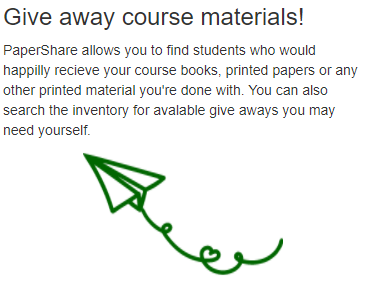
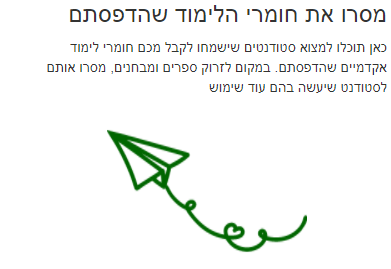
all pages in hebrew only

Changed region(s): [[0.0, 0.1487, 0.9918, 0.4758], [0.2104, 0.4758, 0.8115, 0.9517], [0.0, 0.0, 0.9918, 0.119]]

diff --git a/FlaskWebProject/FlaskWebProject/templates/menu.html b/FlaskWebProject/FlaskWebProject/templates/menu.html
@@ -3,149 +3,178 @@
 {% block content %}
 <br />
 
-<ul class="nav nav-tabs">
-    <li class="active"><a data-toggle="tab" href="#home">Find materials</a></li>
-    <li><a data-toggle="tab" href="#menu1">Give away materials</a></li>
-    <li><a data-toggle="tab" href="#menu2">My posts</a></li>
+<ul class="nav nav-tabs pull-right">
+    <li><a data-toggle="tab" href="#menu2">המסירות שלי</a></li>
+    <li><a data-toggle="tab" href="#menu1">מסירת חומרי לימוד</a></li>
+    <li class="active"><a data-toggle="tab" href="#home">חיפוש חומרי לימוד</a></li>
 </ul>
 
 <div class="tab-content">
     <div id="home" class="tab-pane fade in active">
-        <h3>Find printed materials by choosing your faculty and the course:</h3>
+        <br />
+        <br />
+        <br />
+        <h3 class="text-right">חיפוש חומרי לימוד למסירה</h3>
 
-        <div class="dropdown">
+        <div class="dropdown pull-right">
             <button class="btn btn-default dropdown-toggle" type="button" data-toggle="dropdown">
-                Fauclty
+                פקולטה
                 <span class="caret"></span>
             </button>
             <ul class="dropdown-menu">
-                <li class="dropdown-header">Engineering</li>
-                <li><a href="#">Elecric engineering</a></li>
-                <li><a href="#">Mechanical engineering</a></li>
+                <li class="dropdown-header text-right">הנדסה</li>
+                <li class="text-right"><a href="#">הנדסת חשמל</a></li>
+                <li class="text-right"><a href="#">הנדסה מכנית</a></li>
+                <li class="text-right"><a href="#">הנדסה ביו-רפואית</a></li>
+                <li class="text-right"><a href="#">הנדסת חומרים</a></li>
+                <li class="text-right"><a href="#">הנדסת תעשייה וניהול</a></li>
                 <li class="divider"></li>
-                <li class="dropdown-header">Medecine</li>
-                <li><a href="#">Medecine</a></li>
+                <li class="dropdown-header text-right">רפואה</li>
+                <li class="text-right"><a href="#">רפואה</a></li>
+                <li class="text-right"><a href="#">סיעוד</a></li>
             </ul>
         </div>
         <br />
-        <div class="dropdown">
+        <br />
+        <div class="dropdown pull-right">
             <button class="btn btn-default dropdown-toggle" type="button" data-toggle="dropdown">
-                Course
+                קורס
                 <span class="caret"></span>
             </button>
             <ul class="dropdown-menu">
-                <li class="dropdown-header">First year</li>
-                <li><a href="#">Physics 1</a></li>
-                <li><a href="#">Linear algebra</a></li>
+                <li class="dropdown-header text-right">שנה א</li>
+                <li class="text-right"><a href="#">מכניקה קלאסית</a></li>
+                <li class="text-right"><a href="#">אלגברה לינארית</a></li>
                 <li class="divider"></li>
-                <li class="dropdown-header">Second year</li>
-                <li><a href="#">Python</a></li>
+                <li class="dropdown-header text-right">שנה ב</li>
+                <li class="text-right"><a href="#">מבני נתונים</a></li>
+                <li class="text-right"><a href="#">אנליזה הרמונית</a></li>
+                <li class="text-right"><a href="#">פיזיקה קוואנטית</a></li>
             </ul>
         </div>
+        <br />
         <br />
         <div>
             <form action="{{ url_for('ask') }}">
-                <button type="submit" class="btn btn-success"><span class="glyphicon glyphicon-search"></span> Search</button>
+                <button type="submit" class="btn btn-success pull-right"><span class="glyphicon glyphicon-search"></span> חיפוש</button>
             </form>
         </div>
         <div class="container">
-            <table class="table table-striped table-hover">
+            <table class="table table-striped table-hover text-right">
                 <thead>
                     <tr>
-                        <th>Descripton</th>
-                        <th>Email</th>
+                        <th class="text-right">תיאור</th>
+                        <th class="text-right">Email</th>
                     </tr>
                 </thead>
                 <tbody>
                     <tr>
-                        <td>10 printed Tests</td>
+                        <td> מבחנים מודפסים</td>
                         <td>john@example.com</td>
                     </tr>
                     <tr>
-                        <td>Course book</td>
+                        <td>ספר הקורס</td>
                         <td>mary@example.com</td>
                     </tr>
                     <tr>
-                        <td>My notes</td>
+                        <td>סיכום שלי</td>
                         <td>july@example.com</td>
                     </tr>
                 </tbody>
             </table>
         </div>
     </div>
-
+    <br />
 
 
     <div id="menu1" class="tab-pane fade">
-        <h3>Find a student to take away the materials you no longer need:</h3>
-        <p>After posting, You can review the post under 'My posts'</p>
+        <br />
+        <br />
+        <h3 class="text-right">מצא סטודנטים למסור להם חומרי לימוד</h3>
+        <p class="text-right">אחרי השליחה, תוכל לראות את המסירות שלך תחת המסירות שלי</p>
         <br />
         <form action="/action_page.php">
-            <div class="dropdown">
+            <div class="dropdown pull-right">
                 <button class="btn btn-default dropdown-toggle" type="button" data-toggle="dropdown">
-                    Fauclty
+                    פקולטה
                     <span class="caret"></span>
                 </button>
                 <ul class="dropdown-menu">
-                    <li class="dropdown-header">Engineering</li>
-                    <li><a href="#">Elecric engineering</a></li>
-                    <li><a href="#">Mechanical engineering</a></li>
+                    <li class="dropdown-header text-right">הנדסה</li>
+                    <li class="text-right"><a href="#">הנדסת חשמל</a></li>
+                    <li class="text-right"><a href="#">הנדסה מכנית</a></li>
+                    <li class="text-right"><a href="#">הנדסה ביו-רפואית</a></li>
+                    <li class="text-right"><a href="#">הנדסת חומרים</a></li>
+                    <li class="text-right"><a href="#">הנדסת תעשייה וניהול</a></li>
                     <li class="divider"></li>
-                    <li class="dropdown-header">Medecine</li>
-                    <li><a href="#">Medecine</a></li>
+                    <li class="dropdown-header text-right">רפואה</li>
+                    <li class="text-right"><a href="#">רפואה</a></li>
+                    <li class="text-right"><a href="#">סיעוד</a></li>
                 </ul>
             </div>
             <br />
-            <div class="dropdown">
+            <br />
+            <div class="dropdown pull-right">
                 <button class="btn btn-default dropdown-toggle" type="button" data-toggle="dropdown">
-                    Course
+                    קורס
                     <span class="caret"></span>
                 </button>
                 <ul class="dropdown-menu">
-                    <li class="dropdown-header">First year</li>
-                    <li><a href="#">Physics 1</a></li>
-                    <li><a href="#">Linear algebra</a></li>
+                    <li class="dropdown-header text-right">שנה א</li>
+                    <li class="text-right"><a href="#">מכניקה קלאסית</a></li>
+                    <li class="text-right"><a href="#">אלגברה לינארית</a></li>
                     <li class="divider"></li>
-                    <li class="dropdown-header">Second year</li>
-                    <li><a href="#">Python</a></li>
+                    <li class="dropdown-header text-right">שנה ב</li>
+                    <li class="text-right"><a href="#">מבני נתונים</a></li>
+                    <li class="text-right"><a href="#">אנליזה הרמונית</a></li>
+                    <li class="text-right"><a href="#">פיזיקה קוואנטית</a></li>
                 </ul>
             </div>
+            <br />
             <br />
             <div class="form-group">
-                <label>Description:</label>
-                <p>(What are you plannig to give away? ex: a printed book of the course)</p>
-                <input class="form-control" id="Description">
+                <br />
+                <label class="pull-right">:תיאור</label>
+                <p class="text-right">מה את\ה מוסר\ת? (למשל: קובץ מבחנים מודפס)</p>
+                <input class="form-control pull-right text-right" id="Description">
             </div>
-            <div class="checkbox">
-                <label><input type="checkbox"> I agree to be contacted by my university email address.</label>
+            <br />
+            <br />
+            <div class="checkbox pull-right">
+                <label><input type="checkbox"> אני מסכים שיצרו איתי קשר במייל האוניברסיטאי בקשר למסירת חומרי הלימוד</label>
             </div>
-            <button type="submit" class="btn btn-success"><span class="glyphicon glyphicon-send"></span> Post</button>
+            <br />
+            <br />
+            <button type="submit" class="btn btn-success pull-right"><span class="glyphicon glyphicon-send"></span> שליחה</button>
         </form>
     </div>
+    <br />
+
 
     <div id="menu2" class="tab-pane fade">
-        <h3>Here is a list of materials you gave away. You may delete these at any time.</h3>
-        <p>you will be contacted via the Email address you provided.</p>
+        <br />
+        <h3 class="text-right">אלו הם חומרי הלימוד שפרסמת למסירה, ניתן להסיר אותם מהאתר בכל זמן</h3>
+        <p class="text-right">.כאשר סטודנט ירצה לקבל את אחד החומרים שמסרת, הוא יצור איתך קשר במייל האוניברסיטאי שלך</p>
         <br />
         <div class="container">
-            <table class="table table-striped table-hover">
+            <table class="table table-striped table-hover text-right">
                 <thead>
                     <tr>
-                        <th>Faculty</th>
-                        <th>Course</th>
-                        <th>Descripton</th>
+                        <th class="text-right">פקולטה</th>
+                        <th class="text-right">קורס</th>
+                        <th class="text-right">תיאור</th>
                     </tr>
                 </thead>
                 <tbody>
                     <tr>
-                        <td>Electrical Engineering</td>
-                        <td>Math</td>
-                        <td>10 printed Tests</td>
+                        <td>הנדסת חשמל</td>
+                        <td>חדו"א</td>
+                        <td> מבחנים מודפסים</td>
                     </tr>
                     <tr>
-                        <td>Electrical Engineering</td>
+                        <td>הנדסת חשמל</td>
                         <td>Python</td>
-                        <td>My notes</td>
+                        <td>סיכום</td>
                     </tr>
                 </tbody>
             </table>

diff --git a/FlaskWebProject/FlaskWebProject/templates/how_to.html b/FlaskWebProject/FlaskWebProject/templates/how_to.html
@@ -9,35 +9,42 @@
         margin-right: auto;
     }
 </style>
-<h2>PaperShare</h2>
-<p>A detailed description of the proccess.</p>
+<h2 class="text-right">?איך זה עובד</h2>
+<p class="text-right">תיאור של תהליך המסירה והקבלה</p>
 <br />
 <div class="row">
     <div class="col-md-4">
-        <h3>Give away course materials!</h3>
-        <p>
-            PaperShare allows you to find students who would happilly recieve your course books, printed papers or any other printed material you're done with. You can also search the inventory for avalable give aways you may need yourself.
+        <h3 class="text-right">מסרו את חומרי הלימוד שהדפסתם</h3>
+        <p class="text-right">
+            כאן תוכלו למצוא סטודנטים שישמחו לקבל מכם חומרי לימוד אקדמיים שהדפסתם. במקום לזרוק ספרים ומבחנים, מסרו אותם לסטודנט שיעשה בהם עוד שימוש
         </p>
+        <br />
         <img src="/static/img/airplane.png" alt="airplane" class="center" style="width:200px;height:128px;">
     </div>
     <div class="col-md-4">
-        <h3>Save our planet</h3>
-        <p>
-            By sharing our materials, we reduce the amount we print, save papers and save trees. Together, we share paper and save the earth!
+        <h3 class="text-right">שמרו על הסביבה</h3>
+        <p class="text-right">
+            השימוש החוזר בחומרי הלימוד יחסוך הדפסות נוספות. כך, נוכל לחסוך בנייר ולשמור יחד על הסביבה
         </p>
         <br />
         <br />
         <img src="/static/img/oak.png" alt="tree" class="center" style="width:128px;height:128px;">
     </div>
     <div class="col-md-4">
-        <h3>Save money $$$</h3>
-        <p>
-            Material is given away and recieved for free on our platform. relieving the cost of printing.
+        <h3 class="text-right">חסכו כסף $$$</h3>
+        <p class="text-right">
+            המסירות באתר הן ללא תשלום. במקום לשלם על הדפסות חדשות, קבלו חומרים משומשים בחינם וחסכו בעלויות
         </p>
-        <br />
         <br />
         <br />
         <img src="/static/img/dollarIcon.png" alt="dollar icon" class="center" style="width:100px;height:128px;">
     </div>
 </div>
+<br />
+<div>
+
+    <button type="submit" class="btn btn-success pull-right"><a href="/">חזרה לאתר</a> </button>
+</div>
+<br />
+
 {% endblock %}

diff --git a/FlaskWebProject/FlaskWebProject/templates/login.html b/FlaskWebProject/FlaskWebProject/templates/login.html
@@ -9,28 +9,43 @@
         margin-left: auto;
         margin-right: auto;
     }
+
+    form {
+        overflow: hidden;
+    }
+
+    input {
+        float: right;
+        clear: both;
+    }
 </style>
 
+
 <div class="jumbotron">
-    <img src="/static/img/psbannergrey.png" alt="PaperShare" class="center" >
+    <img src="/static/img/psbannergrey.png" alt="PaperShare" class="center" style="width:750px;height:128px;">
     <!-- <p class="lead">Flask is a free web framework for building great Web sites and Web applications using HTML, CSS and JavaScript.</p>
     <p><a href="http://flask.pocoo.org/" class="btn btn-primary btn-large">Learn more &raquo;</a></p> -->
-    <br />
-    <p class="lead">PaperShare is the place for you to easily find the printed study material you need or to pass on the one you don't need.</p>
+    <p class="lead text-right">!פפיפר-שייר הוא המקום למסור חומרי לימוד או לקבל חומרי לימוד מסטודנט שסיים\מה להשתמש בהם</p>
 </div>
 
 <div class="row">
-    <h2>Login using your university Email address</h2>
-    <p>No registration required</p>
+    <h2 class="text-right">התחבר\י עם כתובת מייל אוניברסיטאית</h2>
+    <p class="text-right">אין צורך ברישום</p>
     <form action="{{ url_for('ask') }}">
-        <div class="form-group">
-            <label for="email">University student Email address: (ex: myname@mail.tau.ac.il)</label>
+        <div class="form-group text-right">
+            <label for="email">:כתובת מייל אוניברסיטאית </label>
+            <br />
             <input type="email" class="form-control" id="email">
+            <button type="submit" class="btn btn-success pull-right"><span class="glyphicon glyphicon-log-in"></span> כניסה</button>
         </div>
-        <div class="checkbox">
+
+        <br />
+        <br />
+        <div class="checkbox pull-right">
             <label><input type="checkbox">Remember me</label>
         </div>
-        <button type="submit" class="btn btn-success"><span class="glyphicon glyphicon-log-in"></span> Enter</button>
+        <br />
+
     </form>
 
 </div>

diff --git a/FlaskWebProject/FlaskWebProject/templates/layout.html b/FlaskWebProject/FlaskWebProject/templates/layout.html
@@ -10,7 +10,7 @@
 </head>
 
 <body>
-    <div class="navbar navbar-inverse navbar-fixed-top">
+    <div class="navbar navbar-inverse navbar-right navbar-fixed-top">
         <div class="container">
             <div class="navbar-header">
                 <button type="button" class="navbar-toggle" data-toggle="collapse" data-target=".navbar-collapse">
@@ -19,12 +19,12 @@
                     <span class="icon-bar"></span>
                 </button>
                 <a href="/" class="navbar-brand"><img src="/static/img/psbannerblack.png" alt="PaperShare" class="center" style="width:120px;height:25px;" href="/"></a>
-                
+
             </div>
             <div class="navbar-collapse collapse">
-                <ul class="nav navbar-nav">
+                <ul class="nav navbar-nav navbar-right">
 
-                    <li><a href="{{ url_for('help') }}">How does it work?</a></li>
+                    <li><a href="{{ url_for('help') }}">?איך זה עובד</a></li>
                 </ul>
             </div>
         </div>
